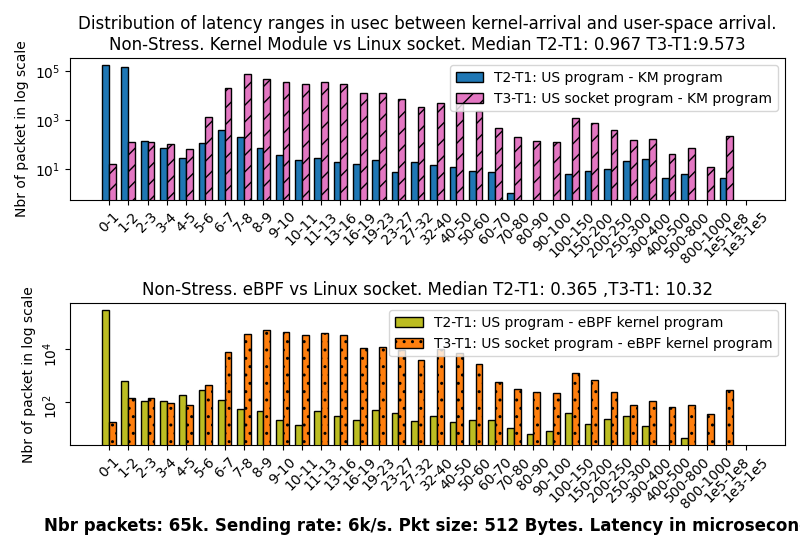
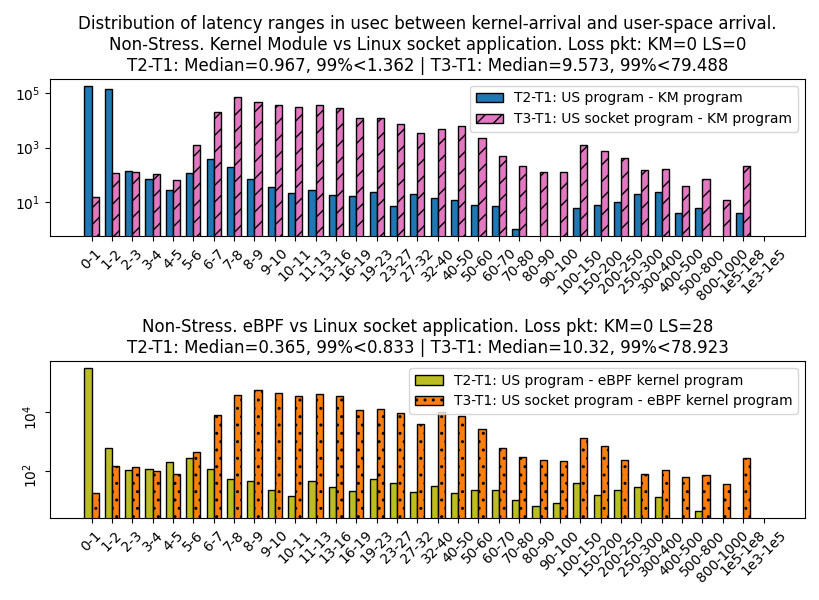
.

diff --git a/scripts/ps_combi_2_stress_non.py b/scripts/ps_combi_2_stress_non.py
@@ -267,6 +267,7 @@ for test_case in test_cases:
     # print("#################")
 
     diffs_median = [0] * len(diffs_label)
+    diffs_99_procent = [0] * len(diffs_label)
     diffs_avg = [0] * len(diffs_label)
     diffs_stddev = [0] * len(diffs_label)
     # Average
@@ -291,19 +292,23 @@ for test_case in test_cases:
     for i in range(0, len(diffs_label)):
         nbr_values = sum(count_diffs[i].values())
         middle_nbr = int(nbr_values/2)
+        ninenine_nbr = int(nbr_values*99/100)
         current_nbr_values = 0
         sorted_keys = sorted(count_diffs[i].keys())
         for key in sorted_keys:
             current_nbr_values += count_diffs[i].get(key)
-            if current_nbr_values >= middle_nbr:
+            if diffs_median[i] == 0 and current_nbr_values >= middle_nbr:
                 diffs_median[i] = key
-                # print(f"Median: {str(key)}")
+            if current_nbr_values >= ninenine_nbr:
+                diffs_99_procent[i] = key
                 break
+
     for i in range(0, len(diffs_label)):
         print(diffs_label[i])
         print(f"  Max-Min : {str(max(count_diffs[i].keys()))}-{str(min(count_diffs[i].keys()))}")
         print(f"  Negative: {str(diffs_neg[i])}")
         print(f"  Median  : {str(diffs_median[i])}")
+        print(f"  99%  : {str(diffs_99_procent[i])}")
         print(f"  Average : {str(diffs_avg[i])}")
         print(f"  Stddev  : {str(diffs_stddev[i])}")
 
@@ -356,17 +361,31 @@ for test_case in test_cases:
 
     # Add some text for labels, title and custom x-axis tick labels, etc.
     case = translate_cases.get(test_case)
+    # loss_pkt_km_text = ""
+    loss_pkt_km_text = f"Loss pkt: KM={logs_zeroed[1]} LS={logs_zeroed[2]}"# if logs_zeroed[2]!=0 else ""
+
+
+    # loss_pkt_ebpf_text = ""
+    loss_pkt_ebpf_text = f"Loss pkt: KM={logs_zeroed[4]} LS={logs_zeroed[5]}"
     axs[0].set_title(
         "Distribution of latency ranges in usec between kernel-arrival and user-space arrival.\n" +
         case[0] +
-        ". Kernel Module vs Linux socket. Median T2-T1: " + str(diffs_median[0]/1000) + " T3-T1:" + str(diffs_median[1]/1000)
-    )
+        ". Kernel Module vs Linux socket application. " + loss_pkt_km_text + "\n" +
+        "T2-T1: Median=" + str(diffs_median[0]/1000) +  ", 99%<" + str(diffs_99_procent[0]/1000) + 
+        " | " +
+        "T3-T1: Median=" + str(diffs_median[1]/1000) +  ", 99%<" + str(diffs_99_procent[1]/1000)
+        # f"Loss pkt: KM={logs_zeroed[2]}" if logs_zeroed[2]!=0 else "" +
+        # f"Loss pkt: LS={logs_zeroed[5]}" if logs_zeroed[5]!=0 else ""
+    )#+ LS={logs_zeroed[5]}"
     axs[1].set_title(
         case[0] + 
-        ". eBPF vs Linux socket. Median T2-T1: " + str(diffs_median[2]/1000) + " ,T3-T1: " + str(diffs_median[3]/1000)
+        ". eBPF vs Linux socket application. " + loss_pkt_ebpf_text + "\n" +
+        "T2-T1: Median=" + str(diffs_median[2]/1000) +  ", 99%<" + str(diffs_99_procent[2]/1000) + 
+        " | " +
+        "T3-T1: Median=" + str(diffs_median[3]/1000) +  ", 99%<" + str(diffs_99_procent[3]/1000)
     )
     for i in range(0, 2):
-        axs[i].set_ylabel('Nbr of packet in log scale')
+        # axs[i].set_ylabel('Nbr of packet in log scale')
         # if v==1000:
         #     axs[i].set_xlabel('Diff in usec')
         # elif v==1:
@@ -377,12 +396,12 @@ for test_case in test_cases:
         axs[i].legend()
         axs[i].set_xticklabels(labels, rotation=45)
         # axs[i].set_yticklabels(rotation='vertical')
-    axs[1].set_xlabel(case[1] + ". Latency in microsecond", fontweight="bold", fontsize="large")
+    # axs[1].set_xlabel(case[1] + ". Latency in microsecond", fontweight="bold", fontsize="large")
     # axs[0].bar_label(rects1, padding=3)
     # axs[1].bar_label(rects2, padding=3)
     # axs[0].bar_label(rects3, padding=3)
     # axs[1].bar_label(rects4, padding=3)
-    fig.set_size_inches(8, 5.5)
+    fig.set_size_inches(8.2, 6)
     fig.tight_layout()
 
     # plt.xticks(rotation=45)
